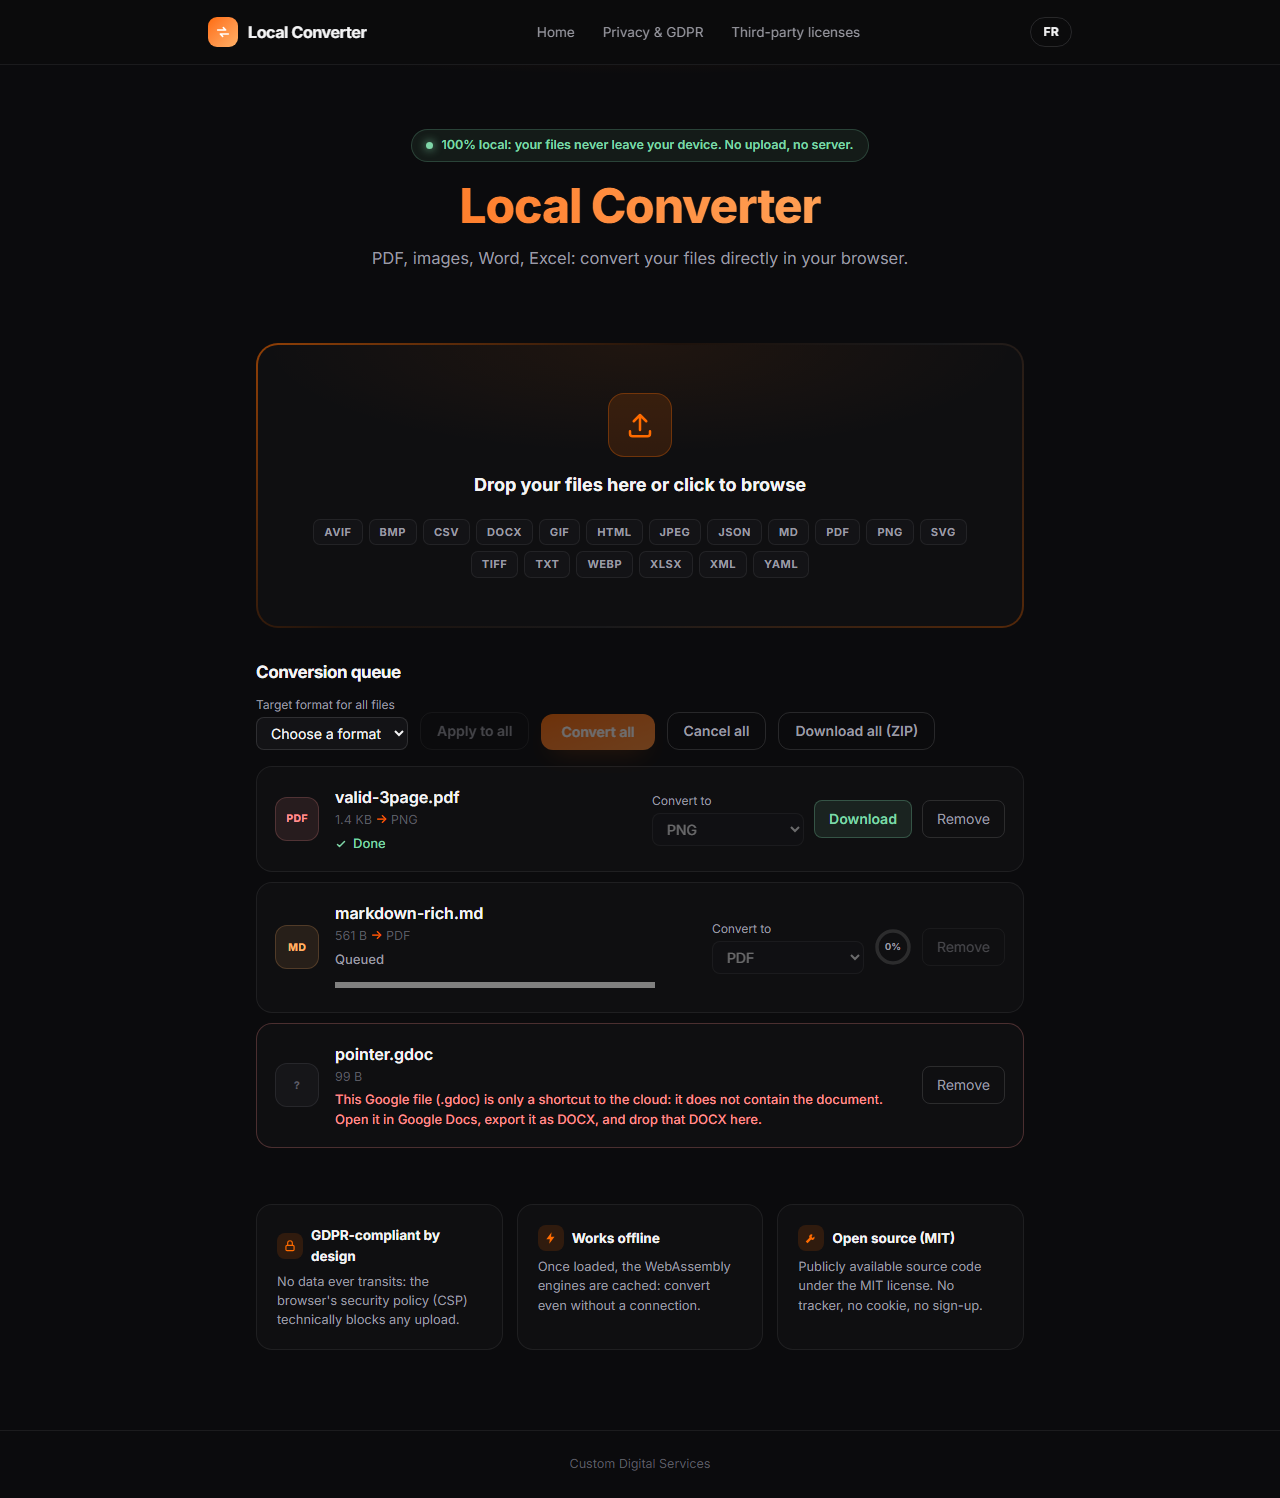
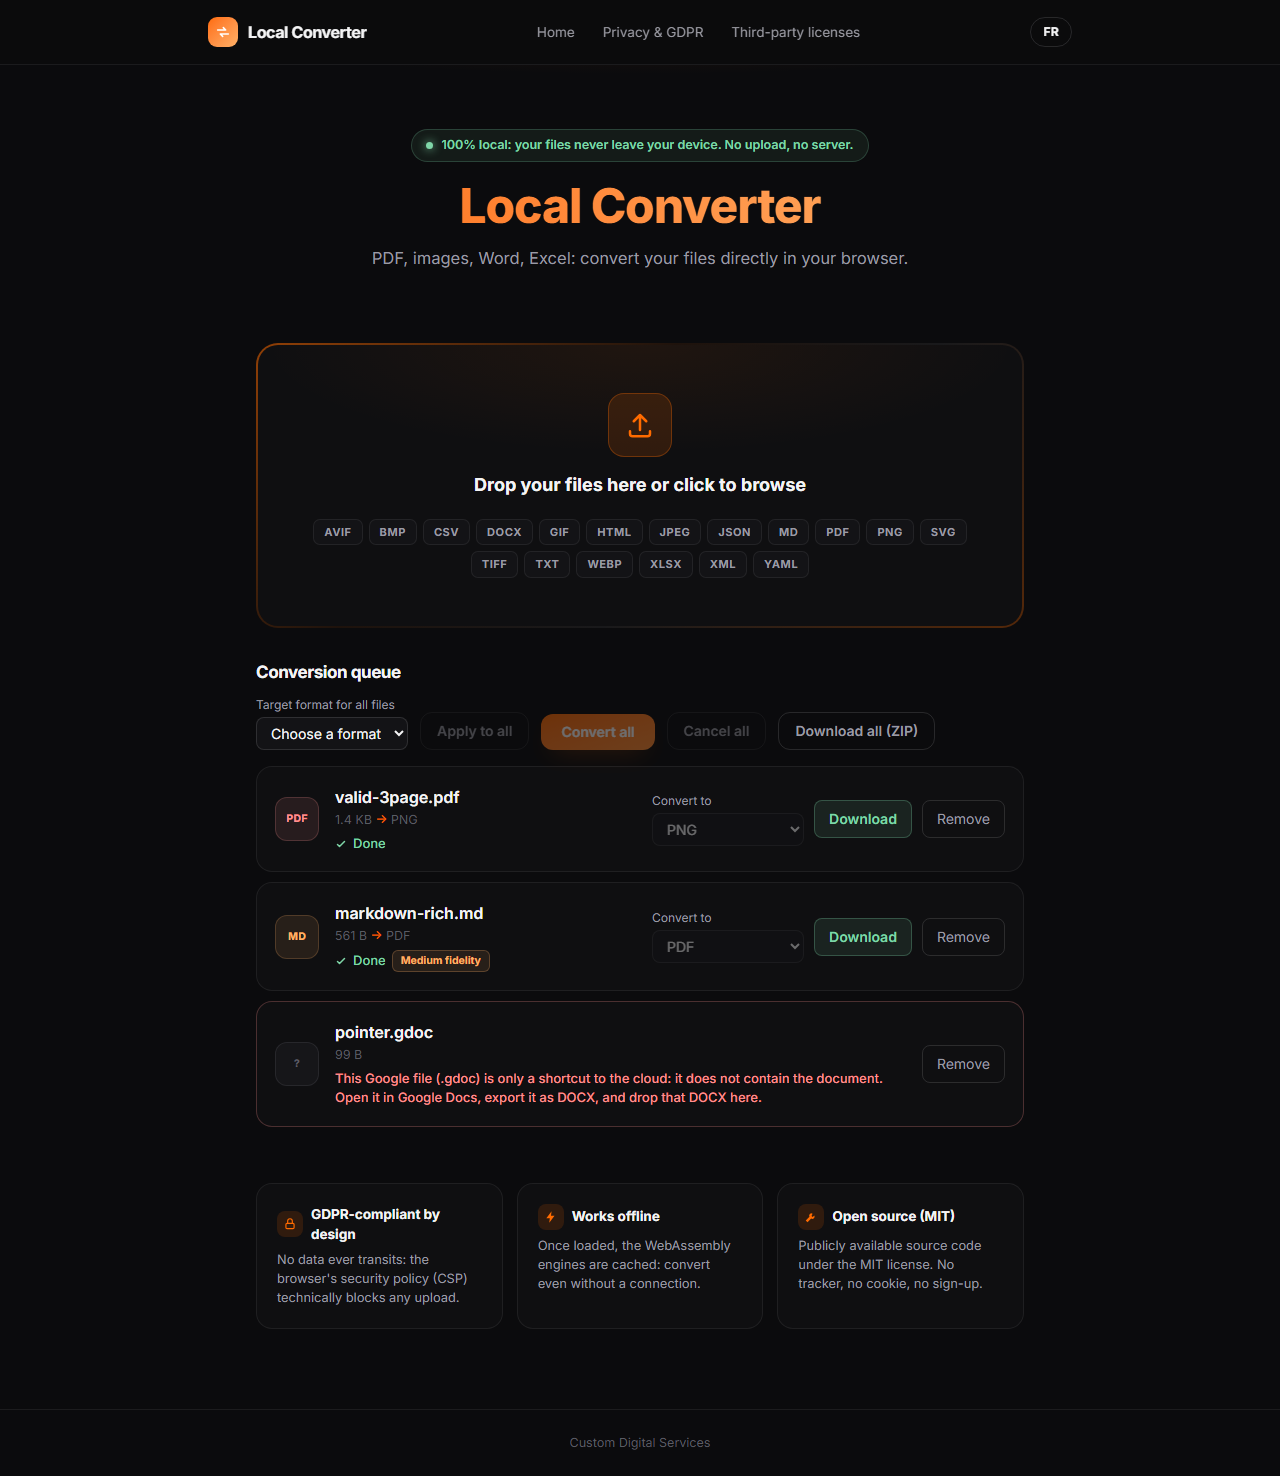
fix: complete the third-party licenses page with every v2 runtime dependency and lock it against package.json
Claude-Session: https://claude.ai/code/session_01CLkyqG1zfnAUprDy3es4Xf

diff --git a/src/ui/LicensesPage.tsx b/src/ui/LicensesPage.tsx
@@ -2,20 +2,49 @@ import type { ReactElement } from "react";
 import { useLocale } from "../i18n/locale-context";
 
 // Runtime dependencies only (build tooling — Vite, TypeScript, ESLint,
-// Vitest, Playwright — is not bundled and is out of scope here). Kept in
-// sync with package.json "dependencies" plus the WASM codecs pulled in by
-// the converter modules (T3-T5); see scripts/check-licenses.mjs for the
-// automated allowlist gate that enforces this at CI time.
-const RUNTIME_LICENSES: ReadonlyArray<{ name: string; license: string }> = [
-  { name: "react / react-dom", license: "MIT" },
-  { name: "fflate", license: "MIT" },
-  { name: "pdfjs-dist", license: "Apache-2.0" },
-  { name: "pdf-lib", license: "MIT" },
-  { name: "@jspawn/qpdf-wasm", license: "Apache-2.0" },
-  { name: "@jsquash", license: "Apache-2.0" },
-  { name: "@resvg/resvg-wasm", license: "MPL-2.0" },
-  { name: "exceljs", license: "MIT" },
-  { name: "mammoth", license: "BSD-2-Clause" },
+// Vitest, Playwright — is not bundled and is out of scope here).
+// licenses-page.test.ts locks this table against package.json
+// "dependencies": adding a runtime dependency without listing it here
+// fails CI. `covers` maps a display row to the package names it credits.
+export interface RuntimeLicenseEntry {
+  name: string;
+  license: string;
+  covers: string[];
+}
+
+export const RUNTIME_LICENSES: readonly RuntimeLicenseEntry[] = [
+  { name: "react / react-dom", license: "MIT", covers: ["react", "react-dom"] },
+  { name: "fflate", license: "MIT", covers: ["fflate"] },
+  { name: "pdfjs-dist", license: "Apache-2.0", covers: ["pdfjs-dist"] },
+  { name: "pdf-lib", license: "MIT", covers: ["pdf-lib"] },
+  { name: "@jspawn/qpdf-wasm", license: "Apache-2.0", covers: ["@jspawn/qpdf-wasm"] },
+  { name: "@jsquash (AVIF)", license: "Apache-2.0", covers: ["@jsquash/avif"] },
+  { name: "@resvg/resvg-wasm", license: "MPL-2.0", covers: ["@resvg/resvg-wasm"] },
+  { name: "exceljs", license: "MIT", covers: ["exceljs"] },
+  { name: "mammoth", license: "BSD-2-Clause", covers: ["mammoth"] },
+  { name: "marked", license: "MIT", covers: ["marked"] },
+  {
+    name: "unified (remark / rehype / mdast / hast)",
+    license: "MIT",
+    covers: [
+      "unified",
+      "remark-parse",
+      "remark-stringify",
+      "remark-gfm",
+      "rehype-parse",
+      "rehype-remark",
+      "rehype-stringify",
+      "mdast-util-to-string",
+      "hast-util-to-text",
+    ],
+  },
+  { name: "docx", license: "MIT", covers: ["docx"] },
+  { name: "yaml", license: "ISC", covers: ["yaml"] },
+  { name: "fast-xml-parser", license: "MIT", covers: ["fast-xml-parser"] },
+  { name: "utif", license: "MIT", covers: ["utif"] },
+  { name: "omggif", license: "MIT", covers: ["omggif"] },
+  { name: "gifenc", license: "MIT", covers: ["gifenc"] },
+  { name: "bmp-js", license: "MIT", covers: ["bmp-js"] },
 ];
 
 interface LicensesPageProps {

diff --git a/src/ui/licenses-page.test.ts b/src/ui/licenses-page.test.ts
@@ -1,0 +1,34 @@
+import { describe, expect, it } from "vitest";
+import { readFileSync } from "node:fs";
+import { join, dirname } from "node:path";
+import { fileURLToPath } from "node:url";
+import { RUNTIME_LICENSES } from "./LicensesPage";
+
+const root = join(dirname(fileURLToPath(import.meta.url)), "..", "..");
+
+interface PackageManifest {
+  dependencies: Record<string, string>;
+}
+
+describe("third-party licenses page", () => {
+  it("credits every runtime dependency from package.json", () => {
+    const manifest = JSON.parse(
+      readFileSync(join(root, "package.json"), "utf8"),
+    ) as PackageManifest;
+    const covered = new Set(RUNTIME_LICENSES.flatMap((entry) => entry.covers));
+    const missing = Object.keys(manifest.dependencies).filter((dep) => !covered.has(dep));
+    expect(missing, `Add these to RUNTIME_LICENSES in LicensesPage.tsx: ${missing.join(", ")}`)
+      .toEqual([]);
+  });
+
+  it("does not credit packages that are no longer dependencies", () => {
+    const manifest = JSON.parse(
+      readFileSync(join(root, "package.json"), "utf8"),
+    ) as PackageManifest;
+    const deps = new Set(Object.keys(manifest.dependencies));
+    const stale = RUNTIME_LICENSES.flatMap((entry) => entry.covers).filter(
+      (name) => !deps.has(name),
+    );
+    expect(stale, `Remove stale entries from RUNTIME_LICENSES: ${stale.join(", ")}`).toEqual([]);
+  });
+});

diff --git a/docs/cds-site-integration.md b/docs/cds-site-integration.md
@@ -1,6 +1,6 @@
 # CDS site integration (page /outils/)
 
-Turnkey content for `web-apps/cds-site/CDS/src/data/content/` (pattern: base fr/en JSON + empty regional overrides unless a divergence exists; `vignette` must belong to `TOOL_VIGNETTES` in `outils.ts` — `"doc"` fits a converter). The build of this repo is deployed under `/outils/convertisseur/` (Vite `base: "./"` makes the bundle path-agnostic).
+Turnkey content for `web-apps/cds-site/CDS/src/data/content/` (pattern: base fr/en JSON + empty regional overrides unless a divergence exists; `vignette` must belong to `TOOL_VIGNETTES` in `outils.ts` — the converter uses its own dedicated `"convert"` type, added 2026-07-18; rule: every tool gets its own vignette). The build of this repo is deployed under `/outils/convertisseur/` (Vite `base: "./"` makes the bundle path-agnostic).
 
 ## outils.fr.json — object to append to `tools`
 
@@ -11,7 +11,7 @@ Turnkey content for `web-apps/cds-site/CDS/src/data/content/` (pattern: base fr/
   "description": "Convertissez PDF, images, Word et Excel directement dans votre navigateur : PDF vers images, fusion et découpe de PDF, images entre formats (WebP, AVIF...), Excel vers CSV/JSON, Word vers PDF. 100% local : vos fichiers ne quittent jamais votre appareil, aucun envoi vers un serveur.",
   "toolHref": "/outils/convertisseur/",
   "cta": "Ouvrir le convertisseur",
-  "vignette": "doc",
+  "vignette": "convert",
   "highlight": false,
   "docsPath": "https://github.com/CustomDigitalServices-Kevin/convertisseur-local",
   "docsCta": "Code source (MIT)"
@@ -27,7 +27,7 @@ Turnkey content for `web-apps/cds-site/CDS/src/data/content/` (pattern: base fr/
   "description": "Convert PDF, images, Word and Excel right in your browser: PDF to images, PDF merge and split, images across formats (WebP, AVIF...), Excel to CSV/JSON, Word to PDF. 100% local: your files never leave your device, nothing is ever uploaded.",
   "toolHref": "/outils/convertisseur/",
   "cta": "Open the converter",
-  "vignette": "doc",
+  "vignette": "convert",
   "highlight": false,
   "docsPath": "https://github.com/CustomDigitalServices-Kevin/convertisseur-local",
   "docsCta": "Source code (MIT)"

diff --git a/README.md b/README.md
@@ -8,17 +8,23 @@ Un convertisseur de fichiers universel qui fonctionne **100% dans votre navigate
 
 Cloud converters (iLovePDF, Smallpdf, CloudConvert...) upload your documents to third-party servers, even if they delete them after a few hours. For sensitive documents (legal, accounting, health, HR), the file has still left your device, transited networks and been stored by a third party. This tool performs every conversion locally with WebAssembly and browser APIs: nothing is ever sent anywhere.
 
-## Conversions (v1)
+## Conversions (v2)
 
 | From | To |
 |---|---|
-| PDF | PNG / JPG (per page), merge, split |
-| PNG / JPG / WebP / AVIF / SVG | PNG / JPG / WebP / AVIF, PDF |
-| XLSX | CSV / JSON / HTML / PDF (labeled medium fidelity) |
-| CSV | XLSX |
-| DOCX | PDF (labeled preview fidelity) |
+| PDF | PNG / JPG (per page), merge, split, MD / DOCX / TXT (labeled preview fidelity) |
+| PNG / JPG / WebP / AVIF / TIFF / GIF / BMP / SVG | PNG / JPG / WebP / AVIF / TIFF / GIF / BMP, PDF |
+| Markdown | HTML / PDF / DOCX / TXT / EPUB |
+| HTML | MD / TXT / EPUB |
+| DOCX | PDF (preview), MD (preview) |
+| XLSX | CSV / JSON / HTML / PDF (medium fidelity) |
+| CSV | XLSX / JSON |
+| YAML / XML / JSON | JSON / YAML / XML / CSV (flat) |
+| TXT | PDF / MD |
 
-Deliberately out of scope: PDF to DOCX (no viable open source WASM library exists), real PDF compression (Ghostscript/MuPDF are AGPL), HEIC (HEVC patents), video and audio.
+Text-based PDF/DOCX outputs are honestly labeled "preview" fidelity: they preserve text and structure, not layout. Google Drive shortcut files (.gdoc) contain no document — the app explains how to export a real DOCX instead.
+
+Deliberately out of scope: faithful-layout PDF to DOCX (no viable open source WASM library exists), real PDF compression (Ghostscript/MuPDF are AGPL), HEIC (HEVC patents), pandoc (GPL), video and audio.
 
 ## Tech
 
